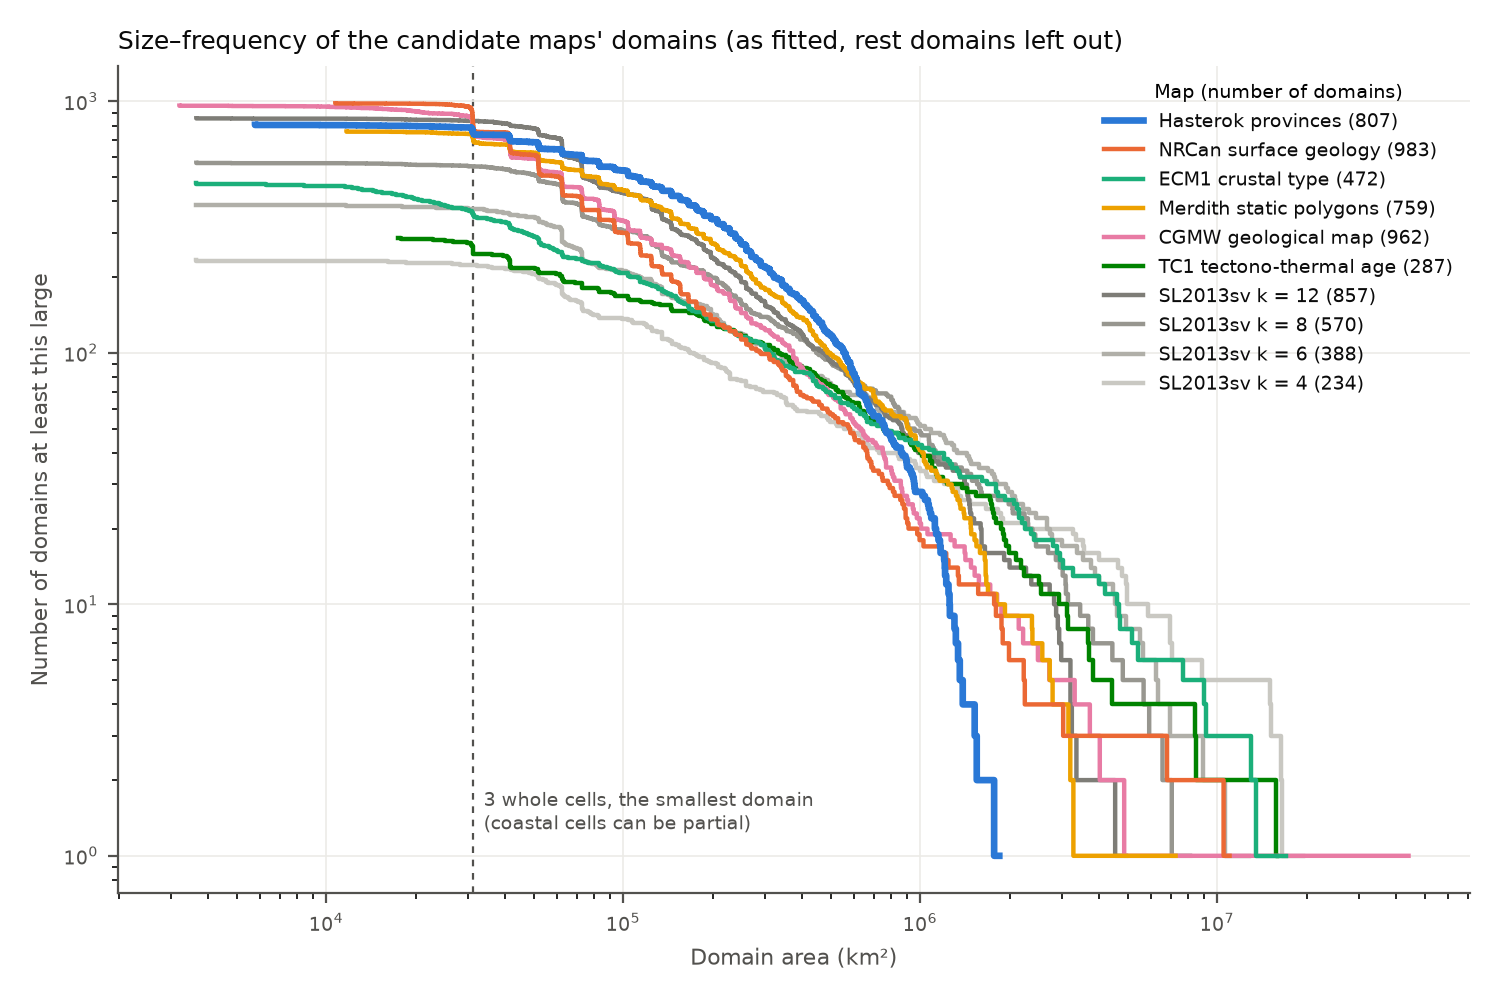
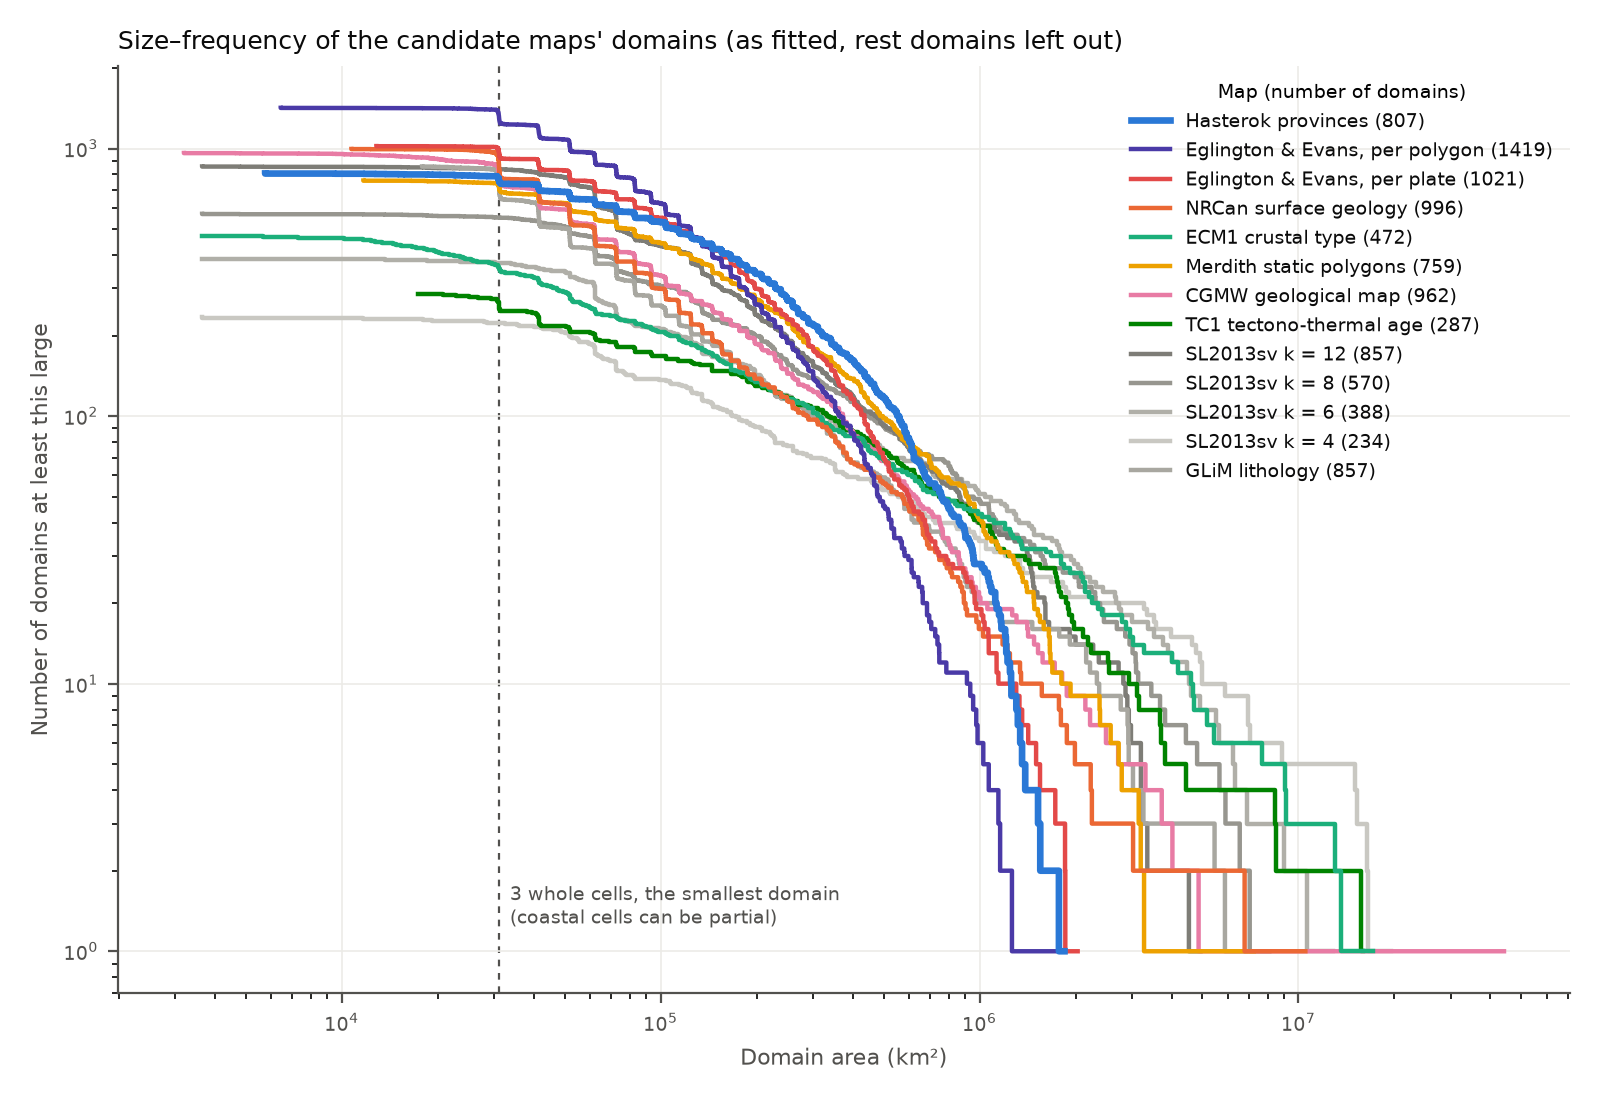
Candidate maps batch 3: GLiM, the Eglington & Evans (2025) continental plate polygons (per plate ID and per polygon), and NRCan rerun without ice; spin tests and 11 S5 draws for each
Eglington & Evans per polygon fits better than the Hasterok provinces (+129 log units) and beats its spun copies by the widest
margin; per plate it is level with Hasterok. GLiM fails the spin test.

diff --git a/remit/inversion/candidates.py b/remit/inversion/candidates.py
@@ -7,12 +7,18 @@ evidence can rank them and spun copies of each can serve as its own null. Maps t
                  merdith      Merdith et al. (2021, v1.1) static polygons less the oceanic ones (gpml:Basin)
                polygons of a geological map, one unit per legend entry (so touching polygons of one entry are
                one patch); holes kept, and where polygons overlap the smallest holding the node wins:
-                 nrcan        NRCan surface geology (gprm), legend: rock type and age range
+                 nrcan        NRCan surface geology (gprm), legend: rock type and age range (ice left out)
                  cgmw         CGMW Geological Map of the World, legend: CODE_G (lakes and glaciers left out)
+               the continental polygons (COTID 'C') of the Eglington & Evans (2025) plate model, holes and
+               overlaps as above:
+                 ee2025_plate one unit per plate ID (the reconstruction block)
+                 ee2025_poly  one unit per polygon
                lon/lat class grids, the unit of a node being the class of the grid cell holding it:
                  tc1          tectono-thermal age bins (Artemieva 2006), 1/3 deg, from the map image in
                               Keller's StatisticalGeochemistry (MIT; gprm Geology.fetch_TC1)
                  ecm1         ECM1 crustal type (Mooney et al. 2023), 1 deg
+                 glim         GLiM lithology (Hartmann & Moosdorf 2012), 0.5 deg grid (PANGAEA 788537): 13 rock
+                              classes; water bodies, no data and ice left out
                a clustering, the unit of a node being the cluster of the nearest knot (great circle):
                  sl2013_k<k>  k-means on SL2013sv absolute Vs profiles over SL2013_DEPTHS km at the knots on
                               continental crust (Schaeffer & Lebedev 2013)
@@ -37,8 +43,11 @@ SL2013 = f'{DATA}/SeismicTomography/SL2013SV/SL2013sv_tri-grd_v2/SL2013sv_25k-k.
 SL2013_DEPTHS = (50., 300.)
 ECM1 = os.path.expanduser('~/Downloads/ECM1/ECM1.txt')
 CGMW = f'{DATA}/Geology/CGMW_GeologicalUnits.shp'
+GLIM = f'{DATA}/Geology/GLiM/glim_wgs84_0point5deg.txt.asc'
+GLIM_NOT_ROCK = (11, 15, 16)                              # water bodies, no data, ice and glaciers
+EE2025 = os.path.expanduser('~/Downloads/EglingtonEvans2025_supporting/PlatePolygons_All.shp')
 MERDITH = 'Merdith2021/SM2-Merdith_et_al_1_Ga_reconstruction_v1.1/shapes_static_polygons_Merdith_et_al.gpml'
-SOURCES = ('tc1', 'ecm1', 'merdith', 'nrcan', 'cgmw')                       # plus sl2013_k<k>
+SOURCES = ('tc1', 'ecm1', 'merdith', 'nrcan', 'cgmw', 'glim', 'ee2025_plate', 'ee2025_poly')                       # plus sl2013_k<k>
 
 
 def _west(lon):
@@ -135,6 +144,7 @@ def _map_units(gdf, unit, lon, lat):
 def _nrcan(lon, lat):
     from gprm.datasets import Geology
     g = Geology.fetch_SurfaceGeology().to_crs('EPSG:4326')     # supplied in WGS72
+    g = g[g.RXTYP != 'ice']
     g['unit'] = g.AGERXTP.astype(str) + '|' + g.FROMAGE.astype(str) + '|' + g.TOAGE.astype(str)
     return _map_units(g, 'unit', lon, lat)
 
@@ -146,10 +156,26 @@ def _cgmw(lon, lat):
     return _map_units(g, 'CODE_G', lon, lat)
 
 
+def _glim(lon, lat):
+    raw = np.loadtxt(GLIM, skiprows=6)                        # ESRI ASCII grid: 0.5 deg, north row first
+    raw[(raw < 0) | np.isin(raw, GLIM_NOT_ROCK)] = np.nan
+    lon_c, lat_c = -179.75 + 0.5*np.arange(raw.shape[1]), -89.75 + 0.5*np.arange(raw.shape[0])
+    return _class_grid(raw[::-1], lon_c, lat_c, lon, lat)
+
+
+def _ee2025(unit):
+    def units(lon, lat):
+        import geopandas as gpd
+        g = gpd.read_file(EE2025)
+        return _map_units(g[g.COTID == 'C'], unit, lon, lat)
+    return units
+
+
 def _source(name):
     if name.startswith('sl2013_k'):
         return lambda lon, lat: _sl2013(int(name[8:]), lon, lat)
-    return {'tc1': _tc1, 'ecm1': _ecm1, 'merdith': _merdith, 'nrcan': _nrcan, 'cgmw': _cgmw}[name]
+    return {'tc1': _tc1, 'ecm1': _ecm1, 'merdith': _merdith, 'nrcan': _nrcan, 'cgmw': _cgmw, 'glim': _glim,
+            'ee2025_plate': _ee2025('PlateID'), 'ee2025_poly': _ee2025('PolyID')}[name]
 
 
 def node_units(name, cells, cache, area_name, g=None):
@@ -160,6 +186,8 @@ def node_units(name, cells, cache, area_name, g=None):
         spec['depths'] = list(SL2013_DEPTHS)
     if name == 'tc1':
         spec['tc1'] = 'keller'                                 # not the earlier grid by C. Heine
+    if name == 'nrcan':
+        spec['nrcan'] = 'no ice'                               # ice was a unit in the first runs
 
     def compute():
         i, j = np.nonzero(cells.cell >= 0)

diff --git a/docs/reports/2026-10-13-candidate-sets/make_ranking.py b/docs/reports/2026-10-13-candidate-sets/make_ranking.py
@@ -20,9 +20,11 @@ NAMES = {'cand:hasterok': 'Hasterok provinces', 'cand:sl2013_k4': 'SL2013sv clus
          'cand:sl2013_k6': 'SL2013sv clusters, k = 6', 'cand:sl2013_k8': 'SL2013sv clusters, k = 8',
          'cand:sl2013_k12': 'SL2013sv clusters, k = 12', 'cand:tc1': 'TC1 tectono-thermal age',
          'cand:ecm1': 'ECM1 crustal type', 'cand:merdith': 'Merdith (2021) static polygons',
-         'cand:nrcan': 'NRCan surface geology', 'cand:cgmw': 'CGMW geological map'}
-BATCHES = ('cand1', 'cand2')
-TC1K = 'cand_tc1k'                                        # TC1 rerun with the Keller grid
+         'cand:nrcan': 'NRCan surface geology', 'cand:cgmw': 'CGMW geological map',
+         'cand:glim': 'GLiM lithology', 'cand:ee2025_plate': 'Eglington & Evans (2025), per plate',
+         'cand:ee2025_poly': 'Eglington & Evans (2025), per polygon'}
+# runs in order: where a layout was run again later (TC1 with the Keller grid; NRCan without ice), the later run wins
+BATCHES = ('cand1', 'cand2', 'cand_tc1k', 'cand3')
 
 
 def evidence(path):
@@ -40,16 +42,22 @@ def runs(tag):
     out = {}
     for b in BATCHES:
         for f in glob.glob(R + f'gcm_glc_{b}_{tag}.log'):
-            out = {**evidence(f), **out}                     # the first batch's value of a layout run twice
-    for f in glob.glob(R + f'gcm_glc_{TC1K}_{tag}.log'):
-        out.update({k: v for k, v in evidence(f).items() if k == 'cand:tc1'})
+            out.update(evidence(f))
     return out
 
 
 def s5_draws():
-    """evidence of every layout in each S5 draw: draw 0 from the batches, draws 1-10 from their own runs"""
-    files = sorted(glob.glob(R + 'gcm_glc_cand_syn_s5_d*.log'), key=lambda f: int(re.search(r'_d(\d+)', f).group(1)))
-    return [d for d in [runs('syn_s5')] + [evidence(f) for f in files] if REF in d]
+    """evidence of every layout in each S5 draw (0-10), the later run of a layout winning as in runs()"""
+    out = []
+    for i in range(11):
+        first = ['cand1_syn_s5', 'cand2_syn_s5', 'cand_tc1k_syn_s5'] if i == 0 else [f'cand_syn_s5_d{i}']
+        d = {}
+        for stem in first + [f'cand3_syn_s5_d{i}']:
+            for f in glob.glob(R + f'gcm_glc_{stem}.log'):
+                d.update(evidence(f))
+        if REF in d:
+            out.append(d)
+    return out
 
 
 def s5_relative(c, draws):
@@ -59,8 +67,8 @@ def s5_relative(c, draws):
 
 def spun(cand):
     """log evidence of the spun copies of a candidate, if its null run has finished"""
-    f = glob.glob(R + f'gcm_glc_cand*_null_{cand[5:]}_lcs1_16-133.log')
-    return np.array([v for v, _ in evidence(f[0]).values()]) if f else np.array([])
+    f = [g for b in BATCHES for g in glob.glob(R + f'gcm_glc_{b}_null_{cand[5:]}_lcs1_16-133.log')]
+    return np.array([v for v, _ in evidence(f[-1]).values()]) if f else np.array([])        # the latest batch
 
 
 def chart():
@@ -117,7 +125,7 @@ def chart():
 
 def maps():
     """for each map: its domains (random colours) and the fitted VIS averaged over each domain"""
-    sets = [xr.load_dataset(f) for b in (TC1K,) + BATCHES for f in glob.glob(R + f'gcm_glc_{b}_lcs1_16-133.nc')]
+    sets = [xr.load_dataset(f) for b in BATCHES[::-1] for f in glob.glob(R + f'gcm_glc_{b}_lcs1_16-133.nc')]
     ds = sets[0]
     cell = figures.cell_grid(ds)
     a = ds.area_km2.values

diff --git a/docs/reports/2026-10-13-candidate-sets/make_sizes.py b/docs/reports/2026-10-13-candidate-sets/make_sizes.py
@@ -1,6 +1,6 @@
 """Size-frequency of the candidate maps' domains, as Bird (2003) plots plates: each domain's area (as fitted: the
 patches on the ~100 km cells, rest domains left out) against the number of domains at least that large.
-Read from gcm_glc_cand1/2_lcs1_16-133.nc (TC1 from the Keller-grid rerun gcm_glc_cand_tc1k). Run from the repository root."""
+Read from gcm_glc_cand1/2/3 and cand_tc1k _lcs1_16-133.nc (a later run of a map wins). Run from the repository root."""
 import glob
 import json
 
@@ -10,12 +10,13 @@ import xarray as xr
 
 R = 'inversions/results/'
 OUT = 'docs/reports/2026-10-13-candidate-sets/'
-# the six maps that beat their spun copies, in the fixed categorical order; SL2013sv (fails) in muted greys
-PASS = [('cand:hasterok', 'Hasterok provinces', '#2a78d6'), ('cand:nrcan', 'NRCan surface geology', '#eb6834'),
+# the eight maps that beat all their spun copies, in the fixed categorical order; GLiM and SL2013sv (spun copies beat them) in muted greys
+PASS = [('cand:hasterok', 'Hasterok provinces', '#2a78d6'), ('cand:ee2025_poly', 'Eglington & Evans, per polygon', '#4a3aa7'),
+        ('cand:ee2025_plate', 'Eglington & Evans, per plate', '#e34948'), ('cand:nrcan', 'NRCan surface geology', '#eb6834'),
         ('cand:ecm1', 'ECM1 crustal type', '#1baf7a'), ('cand:merdith', 'Merdith static polygons', '#eda100'),
         ('cand:cgmw', 'CGMW geological map', '#e87ba4'), ('cand:tc1', 'TC1 tectono-thermal age', '#008300')]
-FAIL = [(f'cand:sl2013_k{k}', f'SL2013sv k = {k}', g) for k, g in
-        [(4, '#c9c8c2'), (6, '#b0afa8'), (8, '#97968f'), (12, '#7e7d77')]]
+FAIL = [('cand:glim', 'GLiM lithology', '#a8a7a0')] + [(f'cand:sl2013_k{k}', f'SL2013sv k = {k}', g) for k, g in
+                                                     [(4, '#c9c8c2'), (6, '#b0afa8'), (8, '#97968f'), (12, '#7e7d77')]]
 INK, MUTED, GRID = '#0b0b0b', '#52514e', '#ecebe7'
 
 
@@ -31,10 +32,10 @@ def areas(name, sets):
 
 
 def main():
-    # the TC1 rerun with the Keller grid first, so its TC1 domains are the ones used
-    sets = [xr.load_dataset(f) for f in glob.glob(R + 'gcm_glc_cand_tc1k_lcs1_16-133.nc')
-            + sorted(glob.glob(R + 'gcm_glc_cand[12]_lcs1_16-133.nc'))]
-    fig, ax = plt.subplots(figsize=(7.5, 5), dpi=200)
+    # later runs first (NRCan without ice, TC1 with the Keller grid), so their domains are the ones used
+    sets = [xr.load_dataset(f) for b in ('cand3', 'cand_tc1k', 'cand2', 'cand1')
+            for f in glob.glob(R + f'gcm_glc_{b}_lcs1_16-133.nc')]
+    fig, ax = plt.subplots(figsize=(8, 5.5), dpi=200)
     for name, label, colour in FAIL + PASS[::-1]:
         a = areas(name, sets)
         n = np.arange(1, len(a) + 1)

diff --git a/docs/reports/2026-10-13-candidate-sets/README.md b/docs/reports/2026-10-13-candidate-sets/README.md
@@ -2,7 +2,7 @@
 
 The Hasterok provinces beat random and shifted versions of themselves. These are other maps that claim to divide the lithosphere into meaningful units. Each can go through the same test, and the scores can be compared, globally and per continent. In the test every connected patch gets its own magnetization, so what is scored is where each map puts its boundaries. The colours below are for reading the maps only.
 
-## The eight candidates
+## The candidates
 
 ![](candidates.png)
 
@@ -14,6 +14,7 @@ The Hasterok provinces beat random and shifted versions of themselves. These are
 - **ECM1 crustal type** (Mooney et al. 2023): the 1° `Type` column of `ECM1.txt`.
 - **TC1 tectono-thermal age** (Artemieva 2006). TC1 is read from the age map in C. B. Keller's [StatisticalGeochemistry](https://github.com/brenhinkeller/StatisticalGeochemistry) (MIT licence), a 1/3° grid, through gprm's `Geology.fetch_TC1`. The overview figure above shows an earlier 1° grid digitised by C. Heine, which agrees with it on 82% of the continental area. All TC1 results below were rerun with the Keller grid (runs `gcm_glc_cand_tc1k_*`, plus the spin test).
 - **Merdith et al. (2021, v1.1) static polygons**: from the gprm cache, leaving out the oceanic ones (feature type `gpml:Basin`).
+- **Eglington & Evans (2025) plate polygons**: `~/Downloads/EglingtonEvans2025_supporting/PlatePolygons_All.shp`, continental polygons only. Added after the overview figure was made, so it is not shown in it.
 
 For the gridded maps, the patch counts treat cells of the same class that touch (4 neighbours, across the dateline) as one patch.
 
@@ -57,17 +58,32 @@ The spin test turns each continent's units by a random angle about the continent
 
 ### Batch 2: detailed surface geology (NRCan, CGMW)
 
-The same test, for two detailed surface-geology maps. Here a unit is a legend entry: rock type plus age range for NRCan (439 entries), and `CODE_G` for CGMW (51 entries). Touching polygons of the same entry form one patch. Polygons keep their holes, and where polygons overlap the smallest one wins. CGMW lakes and glaciers are left out. The chart above includes both maps.
+The same test, for two detailed surface-geology maps. Here a unit is a legend entry: rock type plus age range for NRCan (439 entries), and `CODE_G` for CGMW (51 entries). Touching polygons of the same entry form one patch. Polygons keep their holes, and where polygons overlap the smallest one wins. CGMW lakes and glaciers are left out. NRCan's ice was at first counted as a unit; the rows below are from the rerun with ice left out (batch 3), like CGMW's glaciers. The chart above includes both maps.
 
 | Map | Domains | Evidence vs Hasterok | Real minus median spun copy | Spun copies that beat it |
 |---|---|---|---|---|
-| NRCan surface geology | 990 | −210 | +237 | 0 of 20 |
+| NRCan surface geology | 1003 | −200 | +250 | 0 of 20 |
 | CGMW geological map | 966 | −296 | +115 | 0 of 20 |
 
-- **Both maps pass the spin test.** NRCan has the second-best evidence of all ten maps, behind only Hasterok.
-- **The synthetic check rules out domain count as the explanation.** On data with no geology, both maps score below Hasterok (NRCan −284, CGMW −179), even though they have more domains. Their real-data gap to Hasterok is therefore not caused by their domain count.
+- **Both maps pass the spin test.**
+- **The synthetic check rules out domain count as the explanation.** On data with no geology, both maps score well below Hasterok (in the 11 draws below: NRCan −327, CGMW −308 on average), even though they have more domains. Their real-data gap to Hasterok is therefore not caused by their domain count.
 
-So six maps carry information about the magnetic field: Hasterok, NRCan, ECM1, Merdith, CGMW and TC1. The Hasterok provinces carry the most.
+### Batch 3: GLiM and the Eglington & Evans (2025) plate polygons
+
+- **GLiM lithology:** the 0.5° grid (PANGAEA 788537), 13 rock classes. Water, no-data and ice cells go to the rest domains.
+- **Eglington & Evans (2025):** the continental polygons (`COTID` C) of `PlatePolygons_All.shp`, the building blocks of their plate model. The overlapping "top", "bottom" and "older" layers are not used. It is run two ways: one unit per plate ID (a reconstruction block, 1,342 of them) and one unit per polygon (2,306).
+
+| Map | Domains | Evidence vs Hasterok | Real minus median spun copy | Spun copies that beat it |
+|---|---|---|---|---|
+| Eglington & Evans, per polygon | 1426 | **+129** | +540 | 0 of 20 |
+| Eglington & Evans, per plate | 1028 | +12 | +481 | 0 of 20 |
+| GLiM lithology | 864 | −469 | +74 | 1 of 20 |
+
+- **The Eglington & Evans polygons fit better than the Hasterok provinces.** Split per polygon, they are 129 log units ahead of Hasterok, and they beat their own spun copies by the largest margin of any map: +540 over the median copy and +434 over the best one. Per plate, they are level with Hasterok (+12).
+- **The lead is not explained by domain geometry.** On the synthetic data the Eglington & Evans maps score about the same as Hasterok (per polygon −9, per plate −30 on average). Like Hasterok, they have no domains larger than about 2×10⁶ km² (see the size plot).
+- **GLiM does not pass the spin test.** One of its 20 spun copies beats it, and the real map is only 74 above the median copy. Surface lithology on a 0.5° grid, without ages, carries little information that the magnetic field can see.
+
+So eight maps carry information about the magnetic field: Eglington & Evans (both ways), Hasterok, NRCan, ECM1, Merdith, CGMW and TC1. The Eglington & Evans polygons carry the most.
 
 ### Correcting for geometry with 11 synthetic draws
 
@@ -77,11 +93,14 @@ A map can score well partly because of its domain geometry: the sizes and shapes
 
 | Map | Domains | Real vs Hasterok | S5 mean vs Hasterok (sd of one draw) | Corrected (± about sd/√11) |
 |---|---|---|---|---|
-| NRCan surface geology | 990 | −210 | −329 (88) | **+119** (±26) |
+| Eglington & Evans, per polygon | 1426 | +129 | −9 (80) | **+139** (±24) |
+| NRCan surface geology | 1003 | −200 | −327 (86) | **+127** (±26) |
+| Eglington & Evans, per plate | 1028 | +12 | −30 (77) | **+42** (±23) |
 | CGMW geological map | 966 | −296 | −308 (92) | **+13** (±28) |
 | Hasterok provinces | 814 | 0 | 0 | **0** |
 | TC1 tectono-thermal age | 294 | −370 | −360 (78) | **−10** (±23) |
 | ECM1 crustal type | 472 | −261 | −215 (118) | **−46** (±36) |
+| GLiM lithology | 864 | −469 | −354 (86) | **−115** (±26) |
 | SL2013sv, k = 4 | 234 | −534 | −293 (74) | **−241** (±22) |
 | Merdith static polygons | 766 | −261 | −1 (72) | **−260** (±22) |
 | SL2013sv, k = 8 | 570 | −401 | −120 (62) | **−281** (±19) |
@@ -90,7 +109,8 @@ A map can score well partly because of its domain geometry: the sizes and shapes
 
 (Also in `corrected.csv`.)
 
-- **Once geometry is allowed for, the maps fall into three groups.** NRCan comes out ahead of Hasterok. CGMW, TC1 and ECM1 cannot be told apart from Hasterok. Merdith and every SL2013 clustering are clearly worse.
+- **Once geometry is allowed for, the maps fall into three groups.** Eglington & Evans per polygon and NRCan come out ahead of Hasterok. Eglington & Evans per plate, CGMW, TC1 and ECM1 are close to it. GLiM, Merdith and every SL2013 clustering are clearly worse.
+- **Eglington & Evans per polygon is the only map ahead on both measures.** It leads on raw evidence and after the correction. NRCan's lead appears only after the correction, so it depends on the caveat below.
 - **Why the order changes.** On data with no geology, S5 favours Hasterok's geometry: many mid-sized domains and none larger than about 2×10⁶ km² (see the size plot below). It penalises the very large connected units of NRCan, CGMW, TC1 and ECM1, because a field that varies over a few hundred km is fitted badly by one level across 10⁷ km². The correction gives that penalty back.
 - **Caveat: the correction is only as good as S5 is realistic.** S5 assumes the magnetization has no uniform structure larger than about 500 km. If real cratons or other large units are uniformly magnetized, a giant domain costs little on real data, and the correction over-credits the maps that have giant domains. The spin test does not depend on this assumption, so it remains the main test. The corrected score is a sensitivity check. A next step would be to repeat the draws with a field that has structure at all scales (a pure power law, no 500 km outer scale).
 
@@ -101,7 +121,7 @@ A map can score well partly because of its domain geometry: the sizes and shapes
 Each line shows, for one map, how many of its domains (as fitted) are at least a given area. Rest domains are left out. Plates are plotted this way in Bird (2003). A power-law (fractal) size distribution would give a straight line. Flattening at small sizes reflects the 3-cell minimum and the ~100 km cells, and a steep drop at the largest sizes reflects the finite size of the continents.
 
 - **NRCan, CGMW, ECM1 and TC1** have fairly straight middles (about 10⁵–10⁶ km²) and a tail of very large connected units. For example, CGMW's "continental and island arc margins" unit forms one patch of 4×10⁷ km² around the continents.
-- **Hasterok** bends all the way down and stops at 1.9×10⁶ km². It looks more like a distribution with a typical size than a fractal one.
+- **Hasterok and Eglington & Evans** bend all the way down and stop at about 2×10⁶ km². They look more like distributions with a typical size than fractal ones. The two best-fitting maps on raw evidence share this shape.
 
 Made by `make_sizes.py`.
 
